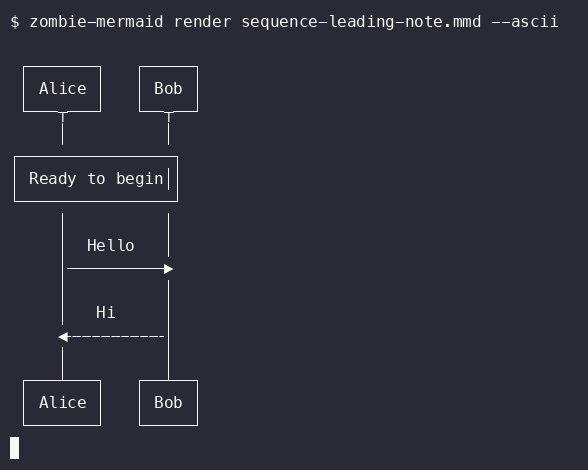
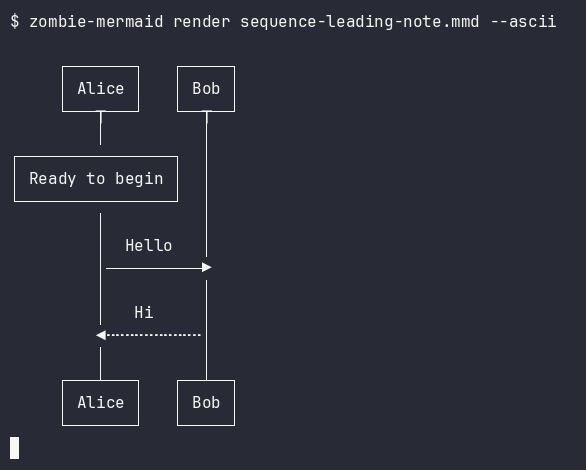
fix(ascii): reserve gap width for a single-actor Note-over box (#992)
`Note over <one actor>` centers its box on that actor's own lifeline
(nx = llX[aIdx] - Math.floor(nWidth / 2)), but neither the left nor
right half of that width was reserved during layout -- only
Note-left/Note-right already did this (#953 cases 3-5). A note wider
than its own actor's column silently spilled into whichever neighbor
was closer, or clamped onto the leftmost actor's own lifeline when
there was no neighbor to spill into.

Fix: track each actor's widest single-actor over-note, split into its
left/right halves, and fold both into the same gap-sizing pass
left/right notes already use -- the initial lifeline's left margin for
the leftmost actor's left half, and the adjacent-gap max() for every
other pair. A multi-actor `Note over A,B` is untouched: spanning both
actors is its intended shape, not a collision.

Also regenerates:
- __tests__/visual/__screenshots__/ascii-samples.visual.test.ts's
  Microservice Orchestration baseline (its "Aggregate response" note
  is exactly this shape) -- confirmed via diff that the change is the
  fix taking effect, not a regression; the sample's SVG baseline is
  untouched since this fix is ASCII-renderer-only.
- public/fork-fixes-screenshots/sequence-leading-note-{before,after}.png
  -- this exact source is the issue's own repro, surfaced while
  reviewing that fix panel. -before still shows no note at all (that
  panel's own fixCommit is about note *visibility*, a different bug);
[…]

diff --git a/packages/ascii-renderer/src/sequence.ts b/packages/ascii-renderer/src/sequence.ts
@@ -276,14 +276,33 @@ export function renderSequenceAscii(
   // message-label sizing happened to leave).
   const leftNoteWidth: number[] = new Array(diagram.actors.length).fill(0)
   const rightNoteWidth: number[] = new Array(diagram.actors.length).fill(0)
+  // A single-actor `over` note draws centered on that actor's own lifeline
+  // (see the note-x calculation below): `Math.floor(w / 2)` columns land to
+  // its left, the rest to its right. Neither half was reserved during gap
+  // sizing before this fix, so a note wider than the actor's own column
+  // silently spilled into whichever neighbour was closer (issue #992) — the
+  // same problem left/rightNoteWidth above already solved for `left`/
+  // `right` notes, just for the two halves of a centered one instead. A
+  // multi-actor `over` note (`Note over Alice,Bob`) is excluded on purpose:
+  // spanning both actors' columns is its intended shape, not a collision.
+  const overNoteHalfLeft: number[] = new Array(diagram.actors.length).fill(0)
+  const overNoteHalfRight: number[] = new Array(diagram.actors.length).fill(0)
   for (const note of diagram.notes) {
-    if (note.position !== 'left' && note.position !== 'right') continue
-    const aIdx = actorIdx.get(note.actorIds[0]!) ?? 0
-    const w = noteBoxWidth(note)
-    if (note.position === 'left') {
-      leftNoteWidth[aIdx] = Math.max(leftNoteWidth[aIdx]!, w)
-    } else {
-      rightNoteWidth[aIdx] = Math.max(rightNoteWidth[aIdx]!, w)
+    if (note.position === 'left' || note.position === 'right') {
+      const aIdx = actorIdx.get(note.actorIds[0]!) ?? 0
+      const w = noteBoxWidth(note)
+      if (note.position === 'left') {
+        leftNoteWidth[aIdx] = Math.max(leftNoteWidth[aIdx]!, w)
+      } else {
+        rightNoteWidth[aIdx] = Math.max(rightNoteWidth[aIdx]!, w)
+      }
+    } else if (note.position === 'over' && note.actorIds.length === 1) {
+      const aIdx = actorIdx.get(note.actorIds[0]!) ?? 0
+      const w = noteBoxWidth(note)
+      const halfLeft = Math.floor(w / 2)
+      const halfRight = w - halfLeft
+      overNoteHalfLeft[aIdx] = Math.max(overNoteHalfLeft[aIdx]!, halfLeft)
+      overNoteHalfRight[aIdx] = Math.max(overNoteHalfRight[aIdx]!, halfRight)
     }
   }
 
@@ -312,6 +331,11 @@ export function renderSequenceAscii(
     Math.max(
       halfBox[0]! + (boxSpanOf[0] === -1 ? 0 : BRACKET_GAP + 1),
       leftNoteWidth[0]! + 1,
+      // A single-actor `over` note on the leftmost actor has no left
+      // neighbour either — same reasoning as the `left`-note case just
+      // above, but for the note's own left half (`nx = llX[0] -
+      // overNoteHalfLeft[0]` must stay >= 0; issue #992).
+      overNoteHalfLeft[0]!,
     ),
   ]
   for (let i = 1; i < diagram.actors.length; i++) {
@@ -329,7 +353,17 @@ export function renderSequenceAscii(
     // so a wide note doesn't overflow into the neighbouring lifeline. The
     // `+2` mirrors adjMaxWidth's own margin below and matches the 1-column
     // clearance the note-x calculation already leaves on the lifeline side.
-    const noteGapNeed = Math.max(rightNoteWidth[i - 1]!, leftNoteWidth[i]!) + 2
+    // A single-actor `over` note on either actor reaches into this same gap
+    // from its own side (its right half from i-1, its left half from i) —
+    // issue #992, folded into the same max() rather than summed, matching
+    // how the left/right pair above is already handled.
+    const noteGapNeed =
+      Math.max(
+        rightNoteWidth[i - 1]!,
+        leftNoteWidth[i]!,
+        overNoteHalfRight[i - 1]!,
+        overNoteHalfLeft[i]!,
+      ) + 2
     const gap = Math.max(
       halfBox[i - 1]! + halfBox[i]! + 2 + wallExtra,
       adjMaxWidth[i - 1]! + 2,

diff --git a/src/__tests__/ascii-sequence-form-invariants.test.ts b/src/__tests__/ascii-sequence-form-invariants.test.ts
@@ -280,6 +280,57 @@ describe('ASCII sequence — notes do not collide with an unrelated lifeline', (
     expect(carolCol < noteRect.x0 || carolCol > noteRect.x1).toBe(true)
   })
 
+  // Fixed by issue #992: a single-actor `Note over` centers on that actor's
+  // own lifeline (`nx = llX[aIdx] - Math.floor(nWidth / 2)`), but neither
+  // half of that width was reserved during layout — so a note wider than
+  // the actor's own column spilled into whichever neighbor was closer,
+  // exactly the shape cases A-C above already fixed for `left`/`right`
+  // notes. This is the exact repro from the issue (two actors, a note over
+  // the first one). A *multi*-actor `Note over A,B` is unaffected —
+  // spanning both actors is its intended shape (see the "note over two
+  // actors" case below), not this bug.
+  it("single-actor 'over' note on the first actor does not overlap the next actor's lifeline (issue #992 repro)", () => {
+    const src = `sequenceDiagram
+  participant A as Alice
+  participant B as Bob
+  Note over A: ${LONG_LABEL}
+  A->>B: hi`
+    const ascii = renderMermaidASCII(src, { useAscii: true })
+    const noteRect = findBoxRect(ascii, LONG_LABEL)
+    const bobCol = lifelineColumn(ascii, 'Bob')
+    expect(bobCol < noteRect.x0 || bobCol > noteRect.x1).toBe(true)
+  })
+
+  // Same fix, but a middle actor: both halves of the note (left half toward
+  // Alice, right half toward Carol) need to be reserved, not just the
+  // leftmost-actor case above.
+  it("single-actor 'over' note on a middle actor does not overlap either neighbor's lifeline", () => {
+    const src = `sequenceDiagram
+  participant A as Alice
+  participant B as Bob
+  participant C as Carol
+  A->>B: hi
+  Note over B: ${LONG_LABEL}`
+    const ascii = renderMermaidASCII(src, { useAscii: true })
+    const noteRect = findBoxRect(ascii, LONG_LABEL)
+    const aliceCol = lifelineColumn(ascii, 'Alice')
+    const carolCol = lifelineColumn(ascii, 'Carol')
+    expect(aliceCol < noteRect.x0 || aliceCol > noteRect.x1).toBe(true)
+    expect(carolCol < noteRect.x0 || carolCol > noteRect.x1).toBe(true)
+  })
+
+  it("short single-actor 'over' note does not overlap the next actor", () => {
+    const src = `sequenceDiagram
+  participant A as Alice
+  participant B as Bob
+  Note over A: ok
+  A->>B: hi`
+    const ascii = renderMermaidASCII(src, { useAscii: true })
+    const noteRect = findBoxRect(ascii, 'ok')
+    const bobCol = lifelineColumn(ascii, 'Bob')
+    expect(bobCol < noteRect.x0 || bobCol > noteRect.x1).toBe(true)
+  })
+
   // Regression locks: short notes, which don't hit any of the three bugs
   // above, must keep rendering without collision.
   it('short note left of a middle actor does not overlap its left neighbor', () => {

diff --git a/.changeset/ascii-sequence-single-actor-over-note-overlap.md b/.changeset/ascii-sequence-single-actor-over-note-overlap.md
@@ -1,0 +1,5 @@
+---
+'zombie-mermaid': patch
+---
+
+Fix ASCII sequence-diagram single-actor `Note over` boxes colliding with a neighboring actor's lifeline (#992). A note wider than its own actor's column now widens the lifeline gap on both sides (mirroring how `Note left of`/`Note right of` already do — #953 cases 3-5) instead of centering purely on the lifeline with no room reserved, so it no longer spills into whichever neighbor was closer. A multi-actor `Note over A,B` is unaffected — spanning both actors is its intended shape.
